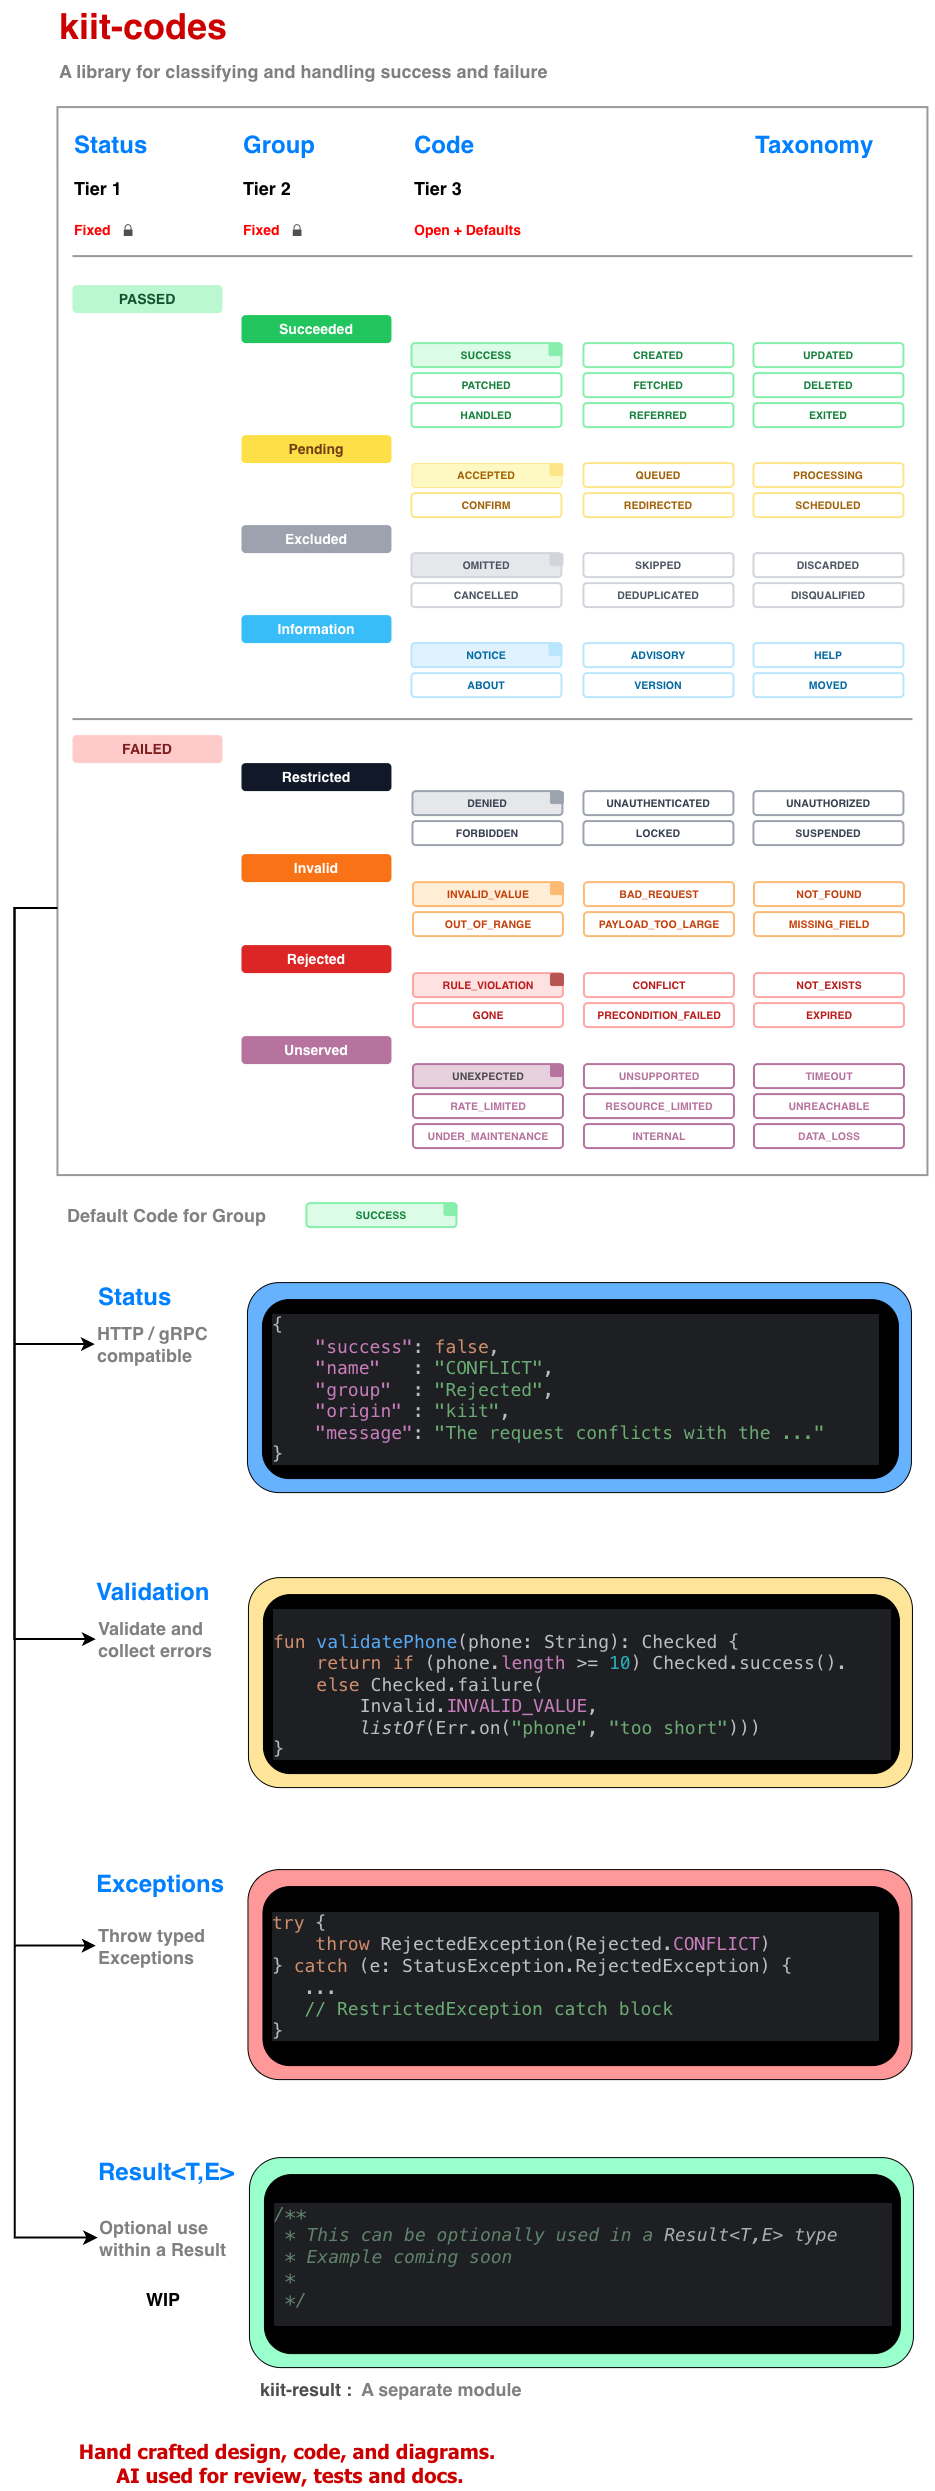
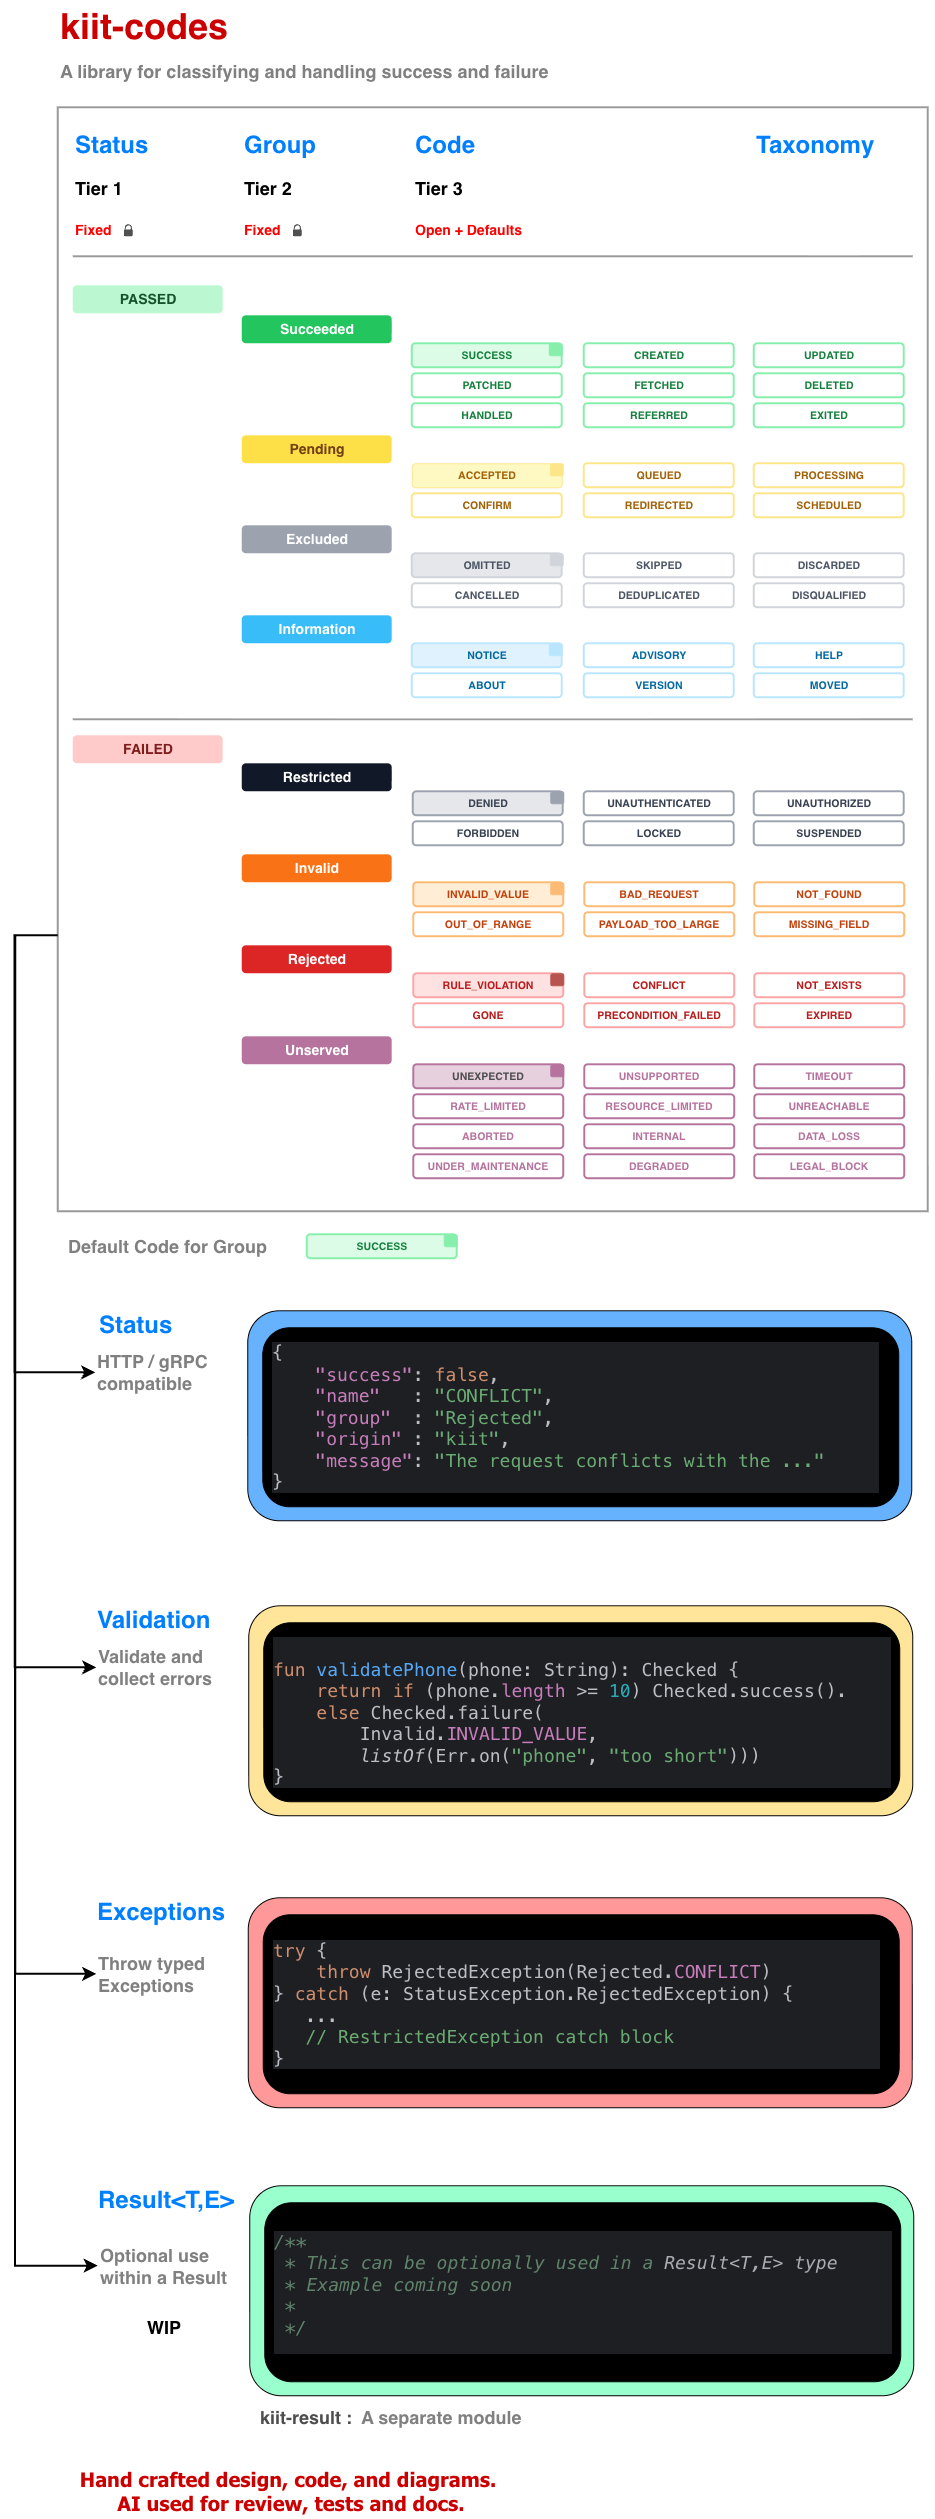
fix: unserved codes and add group description

diff --git a/kiit-codes/src/commonMain/kotlin/kiit/codes/Status.kt b/kiit-codes/src/commonMain/kotlin/kiit/codes/Status.kt
@@ -123,7 +123,19 @@ sealed class Passed : Status {
                 is Information -> "Information"
             }
 
-    /** Operation's primary purpose completed (e.g. a value was created, fetched, updated). */
+    /** Runtime-accessible version of each category's meaning — see the subtypes' own KDoc for detail. */
+    val groupDescription: String
+        get() =
+            when (this) {
+                is Succeeded -> "The operation's primary purpose was completed successfully."
+                is Pending -> "The operation was accepted, but has not yet fully resolved."
+                is Excluded ->
+                    "The item was left out of the operation's normal output, never processed, " +
+                        "processed and discarded, or excluded for another reason."
+                is Information -> "An informational or metadata response; no primary operation was performed."
+            }
+
+    /** See [Passed.groupDescription] for this category's definition. */
     data class Succeeded(
         override val name: String,
         override val message: String,
@@ -152,7 +164,7 @@ sealed class Passed : Status {
         }
     }
 
-    /** Operation accepted but not yet fully processed (e.g. queued, waiting, confirmed). */
+    /** See [Passed.groupDescription] for this category's definition. */
     data class Pending(
         override val name: String,
         override val message: String,
@@ -194,10 +206,10 @@ sealed class Passed : Status {
     }
 
     /**
-     * Item was excluded from the operation's normal output — not processed at all (e.g.
-     * SKIPPED), processed then discarded (e.g. DISCARDED), or omitted for any other reason.
-     * The distinction is carried by [name], not by separate types — see [Excluded.SKIPPED]
-     * and [Excluded.DISCARDED].
+     * See [Passed.groupDescription] for this category's definition.
+     *
+     * The distinction between e.g. [Excluded.SKIPPED] and [Excluded.DISCARDED] is carried by
+     * [name], not by separate types.
      */
     data class Excluded(
         override val name: String,
@@ -234,10 +246,7 @@ sealed class Passed : Status {
         }
     }
 
-    /**
-     * Informational / metadata response — no primary operation was performed.
-     * E.g. HELP, ABOUT, VERSION output from a CLI command.
-     */
+    /** See [Passed.groupDescription] for this category's definition. */
     data class Information(
         override val name: String,
         override val message: String,
@@ -288,7 +297,21 @@ sealed class Failed : Status {
                 is Unserved -> "Unserved"
             }
 
-    /** Security / access-control failure — the caller is not permitted to perform this action. */
+    /** Runtime-accessible version of each category's meaning — see the subtypes' own KDoc for detail. */
+    val groupDescription: String
+        get() =
+            when (this) {
+                is Restricted -> "An access-control failure — the caller is not permitted to perform this action."
+                is Invalid ->
+                    "The request as given cannot be satisfied — malformed input, invalid values, " +
+                        "or an unknown route."
+                is Rejected -> "A known, expected business-rule failure — understood and permitted, but refused."
+                is Unserved ->
+                    "The request is valid and permitted, but cannot be serviced right now, " +
+                        "for reasons unrelated to what was sent."
+            }
+
+    /** See [Failed.groupDescription] for this category's definition. */
     data class Restricted(
         override val name: String,
         override val message: String,
@@ -321,7 +344,7 @@ sealed class Failed : Status {
         }
     }
 
-    /** The request as given cannot be satisfied — malformed input, invalid values, or not found. */
+    /** See [Failed.groupDescription] for this category's definition. */
     data class Invalid(
         override val name: String,
         override val message: String,
@@ -359,7 +382,7 @@ sealed class Failed : Status {
         }
     }
 
-    /** A known, expected business-rule failure — understood and handled by the caller. */
+    /** See [Failed.groupDescription] for this category's definition. */
     data class Rejected(
         override val name: String,
         override val message: String,
@@ -402,9 +425,11 @@ sealed class Failed : Status {
     }
 
     /**
-     * The request is valid and permitted, but cannot be serviced right now for reasons unrelated
-     * to what was sent — capacity, timeout, an unsupported capability, planned
-     * maintenance, or a genuinely unexpected/unhandled failure (see [Unserved.UNEXPECTED]).
+     * See [Failed.groupDescription] for this category's definition.
+     *
+     * E.g. capacity, timeout, an unsupported capability, planned maintenance, a degraded or
+     * aborted dependency, a legal/regulatory block, or a genuinely unexpected/unhandled failure
+     * (see [Unserved.UNEXPECTED]).
      */
     data class Unserved(
         override val name: String,
@@ -442,6 +467,24 @@ sealed class Failed : Status {
                 )
             val DATA_LOSS =
                 Unserved("DATA_LOSS", "Unrecoverable data loss or corruption occurred.", origin = StatusConstants.KIIT)
+            val DEGRADED =
+                Unserved(
+                    "DEGRADED",
+                    "This dependency is degraded; some calls may be refused.",
+                    origin = StatusConstants.KIIT,
+                )
+            val LEGAL_BLOCK =
+                Unserved(
+                    "LEGAL_BLOCK",
+                    "Access is restricted due to legal or regulatory requirements.",
+                    origin = StatusConstants.KIIT,
+                )
+            val ABORTED =
+                Unserved(
+                    "ABORTED",
+                    "The operation was aborted before it could complete; retrying may succeed.",
+                    origin = StatusConstants.KIIT,
+                )
         }
     }
 }

diff --git a/kiit-codes/src/commonTest/kotlin/kiit/codes/CodesTest.kt b/kiit-codes/src/commonTest/kotlin/kiit/codes/CodesTest.kt
@@ -82,6 +82,16 @@ class CodesTest {
     }
 
     @Test
+    fun degradedLegalBlockAndAbortedAreUnserved() {
+        assertFalse(Unserved.DEGRADED.success)
+        assertFalse(Unserved.LEGAL_BLOCK.success)
+        assertFalse(Unserved.ABORTED.success)
+        assertTrue(Unserved.DEGRADED is Failed.Unserved)
+        assertTrue(Unserved.LEGAL_BLOCK is Failed.Unserved)
+        assertTrue(Unserved.ABORTED is Failed.Unserved)
+    }
+
+    @Test
     fun everyBuiltInCodeHasKiitOrigin() {
         assertTrue(Codes.all.all { it.origin == StatusConstants.KIIT })
     }
@@ -220,6 +230,16 @@ class CodesToHttpTest {
 
     @Test fun overrideUnexpected() {
         assertEquals(500, http.toCode(Unserved.UNEXPECTED))
+    }
+
+    @Test fun overrideLegalBlock() {
+        assertEquals(451, http.toCode(Unserved.LEGAL_BLOCK))
+    }
+
+    @Test fun categoryDefaultCoversDegradedAndAborted() {
+        // Neither has a closer HTTP equivalent — deliberately fall through to Unserved's default.
+        assertEquals(503, http.toCode(Unserved.DEGRADED))
+        assertEquals(503, http.toCode(Unserved.ABORTED))
     }
 
     /**
@@ -396,6 +416,9 @@ class CodesToGrpcTest {
     @Test fun categoryDefaultUnservedIsInternal() {
         // UNSUPPORTED is overridden to 12 (see overrideUnsupported) and no longer falls here.
         assertEquals(13, grpc.toCode(Unserved.UNDER_MAINTENANCE))
+        // No closer gRPC equivalent for either — deliberately fall through to the category default.
+        assertEquals(13, grpc.toCode(Unserved.DEGRADED))
+        assertEquals(13, grpc.toCode(Unserved.LEGAL_BLOCK))
     }
 
     @Test fun overrideCancelled() {
@@ -441,6 +464,11 @@ class CodesToGrpcTest {
 
     @Test fun overrideDataLoss() {
         assertEquals(15, grpc.toCode(Unserved.DATA_LOSS))
+    }
+
+    /** Exact match — closes what used to be an honest null gap at gRPC's own ABORTED (10). */
+    @Test fun overrideAborted() {
+        assertEquals(10, grpc.toCode(Unserved.ABORTED))
     }
 
     /** Not an official gRPC mapping, shares RESOURCE_EXHAUSTED (8) with RATE_LIMITED deliberately. */
@@ -510,10 +538,10 @@ class CodesToGrpcTest {
         assertSame(Unserved.UNSUPPORTED, grpc.toStatus(12))
     }
 
-    /** ABORTED (10) has no dedicated Status and nothing falls through to it by default; null. */
+    /** ABORTED now maps directly to gRPC 10, closing what used to be an honest null gap. */
     @Test
-    fun toStatus10ReturnsNullSinceAbortedHasNoDedicatedCode() {
-        assertNull(grpc.toStatus(10))
+    fun toStatus10ResolvesToAborted() {
+        assertSame(Unserved.ABORTED, grpc.toStatus(10))
     }
 
     @Test

diff --git a/kiit-codes/src/commonMain/kotlin/kiit/codes/Codes.kt b/kiit-codes/src/commonMain/kotlin/kiit/codes/Codes.kt
@@ -49,7 +49,7 @@ object Codes {
             Rejected.PRECONDITION_FAILED, Rejected.EXPIRED, Rejected.GONE,
             Unserved.UNEXPECTED, Unserved.UNSUPPORTED, Unserved.TIMEOUT, Unserved.RATE_LIMITED,
             Unserved.RESOURCE_LIMITED, Unserved.UNREACHABLE, Unserved.UNDER_MAINTENANCE,
-            Unserved.INTERNAL, Unserved.DATA_LOSS,
+            Unserved.INTERNAL, Unserved.DATA_LOSS, Unserved.DEGRADED, Unserved.LEGAL_BLOCK, Unserved.ABORTED,
         )
 
     private val byId: Map<String, Status> = all.associateBy { it.id }
@@ -152,6 +152,7 @@ open class CodesToHttp(
                 // same axis as RATE_LIMITED — HTTP doesn't distinguish the two
                 Unserved.RESOURCE_LIMITED.id to 429,
                 Unserved.UNEXPECTED.id to 500,
+                Unserved.LEGAL_BLOCK.id to 451,
             )
 
         /**
@@ -181,7 +182,7 @@ open class CodesToHttp(
  * Category -> gRPC default: Passed (all) -> 0 (OK)   Restricted -> 7 (PERMISSION_DENIED)
  *   Invalid -> 3 (INVALID_ARGUMENT)   Rejected -> 9 (FAILED_PRECONDITION)   Unserved -> 13 (INTERNAL)
  *
- * gRPC's `ABORTED` (10) has no dedicated [Status]; [toStatus] returns null for it.
+ * gRPC's `ABORTED` (10) maps to [Unserved.ABORTED] — previously an honest `null` gap, now closed.
  */
 open class CodesToGrpc(
     private val overrides: Map<String, Int> = DEFAULT_OVERRIDES,
@@ -234,6 +235,10 @@ open class CodesToGrpc(
                 Unserved.DATA_LOSS.id to 15,
                 // RESOURCE_EXHAUSTED — widely used real-world convention, not an official mapping
                 Invalid.PAYLOAD_TOO_LARGE.id to 8,
+                // exact match, closes the previously honest null gap at 10
+                Unserved.ABORTED.id to 10,
+                // DEGRADED and LEGAL_BLOCK have no closer gRPC equivalent — fall through to
+                // Unserved's own category default (13, INTERNAL)
             )
 
         /** One canonical winner per gRPC code with more than one resolving [Status] — see [toStatus]. */

diff --git a/kiit-codes/src/commonTest/kotlin/kiit/codes/StatusTest.kt b/kiit-codes/src/commonTest/kotlin/kiit/codes/StatusTest.kt
@@ -82,6 +82,32 @@ class StatusTest {
     }
 
     // -------------------------------------------------------------------------
+    // groupDescription — runtime-accessible version of each category's meaning
+    // -------------------------------------------------------------------------
+
+    @Test
+    fun groupDescriptionIsNonBlankAndDistinctForAllSubtypes() {
+        val descriptions =
+            listOf(
+                Passed.Succeeded("S", "S").groupDescription,
+                Passed.Pending("P", "P").groupDescription,
+                Passed.Excluded("F", "F").groupDescription,
+                Passed.Information("N", "N").groupDescription,
+                Failed.Restricted("R", "R").groupDescription,
+                Failed.Invalid("I", "I").groupDescription,
+                Failed.Rejected("E", "E").groupDescription,
+                Failed.Unserved("U", "U").groupDescription,
+            )
+        assertTrue(descriptions.all { it.isNotBlank() })
+        assertEquals(descriptions.size, descriptions.toSet().size)
+    }
+
+    @Test
+    fun groupDescriptionIsConsistentAcrossInstancesOfTheSameSubtype() {
+        assertEquals(Failed.Restricted("A", "A").groupDescription, Failed.Restricted("B", "B").groupDescription)
+    }
+
+    // -------------------------------------------------------------------------
     // id — "$origin.$name", derived, usable as a map/lookup key
     // -------------------------------------------------------------------------
 

diff --git a/README.md b/README.md
@@ -208,7 +208,7 @@ graph TD
 
 Each built-in code lives on its own type's companion object (e.g. `Succeeded.CREATED`, `Restricted.DENIED`), not on `Codes` — this keeps autocomplete scoped, typing `Restricted.` shows only `Restricted`'s own members. `Codes` is just the aggregate list + lookup layer over those instances; using it, or the codes at all, is optional — you can construct any `Passed`/`Failed` subtype directly for domain-specific outcomes.
 
-Some examples: `SUCCESS`, `CREATED`, `NOT_FOUND`, `CONFLICT`, `RATE_LIMITED`, `UNEXPECTED` — see [`Codes.kt`](kiit-codes/src/commonMain/kotlin/kiit/codes/Codes.kt) and [`Status.kt`](kiit-codes/src/commonMain/kotlin/kiit/codes/Status.kt) for the full registry (54 codes across 8 categories).
+Some examples: `SUCCESS`, `CREATED`, `NOT_FOUND`, `CONFLICT`, `RATE_LIMITED`, `UNEXPECTED` — see [`Codes.kt`](kiit-codes/src/commonMain/kotlin/kiit/codes/Codes.kt) and [`Status.kt`](kiit-codes/src/commonMain/kotlin/kiit/codes/Status.kt) for the full registry (57 codes across 8 categories).
 
 A few pairs worth distinguishing on sight:
 
@@ -270,7 +270,7 @@ grpc.toCode(Restricted.DENIED)          // 7
 grpc.toStatus(9)?.name             // "PRECONDITION_FAILED" — deterministic canonical winner for that code
 ```
 
-One gap worth knowing: gRPC's `ABORTED` (10) has no dedicated `Status`, so `toStatus(10)` returns `null` — callers need to handle that explicitly.
+Every gRPC code (0-16) resolves to a `Status` — the one gap (`ABORTED`) closed once `Unserved.ABORTED` was added.
 
 ## 🧾 Err & Checked
 
